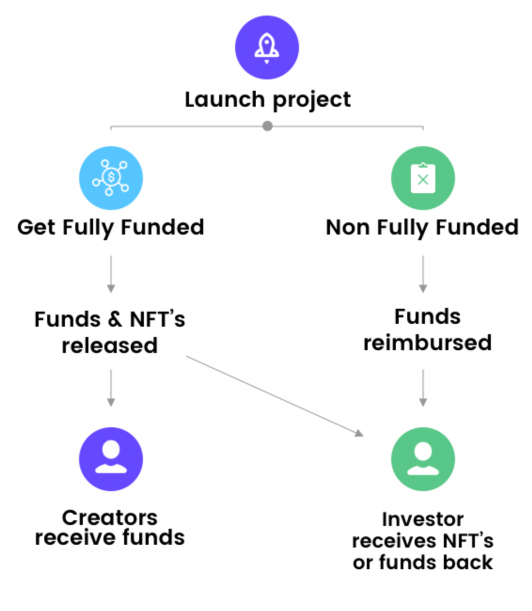
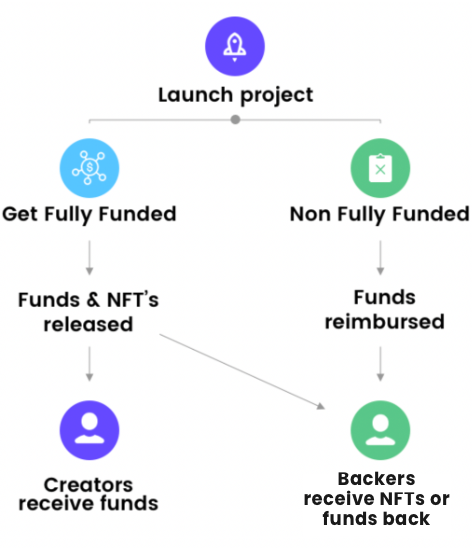
Added some images and made a few code changes to the project page.

diff --git a/components/about/hero/index.js b/components/about/hero/index.js
@@ -2,28 +2,61 @@ export default function Hero() {
     return (
         <section className='w-full py-20 bg-gradient-to-br from-blue-500 to-blue-600'>
             <div className='w-full max-w-5xl mx-auto flex flex-col px-4'>
-                <div className="w-full flex flex-col space-y-10 md:flex-row md:space-x-10 py-10">
-                    <div className="w-full md:w-6/12 font-bold text-4xl md:text-6xl text-white">
-                        Crowdfunding on the <span className="underline hover:text-blue-800 duration-500">Blockchain</span>,
-                        using <span className="italic">NFTs</span>
+                <div className='w-full flex flex-col space-y-10 md:flex-row md:space-x-10 py-10'>
+                    <div className='w-full md:w-6/12 font-bold text-4xl md:text-6xl text-white'>
+                        Crowdfunding on the{' '}
+                        <span className='underline hover:text-blue-800 duration-500'>
+                            Blockchain
+                        </span>
+                        , using <span className='italic'>NFTs</span>
                     </div>
-                    <div className="w-full md:w-6/12 flex flex-col justify-center">
-                        <ul className="text-gray-300 font-medium text-2xl">
-                            <li className="flex flex-row space-x-2 items-center">
-                                <svg xmlns="http://www.w3.org/2000/svg" className="h-6 w-6" fill="none" viewBox="0 0 24 24" stroke="currentColor" strokeWidth={2}>
-                                    <path strokeLinecap="round" strokeLinejoin="round" d="M9 12l2 2 4-4m6 2a9 9 0 11-18 0 9 9 0 0118 0z" />
+                    <div className='w-full md:w-6/12 flex flex-col justify-center'>
+                        <ul className='text-gray-300 font-medium text-2xl'>
+                            <li className='flex flex-row space-x-2 items-center'>
+                                <svg
+                                    xmlns='http://www.w3.org/2000/svg'
+                                    className='h-6 w-6'
+                                    fill='none'
+                                    viewBox='0 0 24 24'
+                                    stroke='currentColor'
+                                    strokeWidth={2}>
+                                    <path
+                                        strokeLinecap='round'
+                                        strokeLinejoin='round'
+                                        d='M9 12l2 2 4-4m6 2a9 9 0 11-18 0 9 9 0 0118 0z'
+                                    />
                                 </svg>
                                 <span>Proof of ownership</span>
                             </li>
-                            <li className="flex flex-row space-x-2 items-center">
-                                <svg xmlns="http://www.w3.org/2000/svg" className="h-6 w-6" fill="none" viewBox="0 0 24 24" stroke="currentColor" strokeWidth={2}>
-                                    <path strokeLinecap="round" strokeLinejoin="round" d="M9 12l2 2 4-4m6 2a9 9 0 11-18 0 9 9 0 0118 0z" />
+                            <li className='flex flex-row space-x-2 items-center'>
+                                <svg
+                                    xmlns='http://www.w3.org/2000/svg'
+                                    className='h-6 w-6'
+                                    fill='none'
+                                    viewBox='0 0 24 24'
+                                    stroke='currentColor'
+                                    strokeWidth={2}>
+                                    <path
+                                        strokeLinecap='round'
+                                        strokeLinejoin='round'
+                                        d='M9 12l2 2 4-4m6 2a9 9 0 11-18 0 9 9 0 0118 0z'
+                                    />
                                 </svg>
-                                <span>Cheaper and Global investing</span>
+                                <span>Cheap and global</span>
                             </li>
-                            <li className="flex flex-row space-x-2 items-center">
-                                <svg xmlns="http://www.w3.org/2000/svg" className="h-6 w-6" fill="none" viewBox="0 0 24 24" stroke="currentColor" strokeWidth={2}>
-                                    <path strokeLinecap="round" strokeLinejoin="round" d="M9 12l2 2 4-4m6 2a9 9 0 11-18 0 9 9 0 0118 0z" />
+                            <li className='flex flex-row space-x-2 items-center'>
+                                <svg
+                                    xmlns='http://www.w3.org/2000/svg'
+                                    className='h-6 w-6'
+                                    fill='none'
+                                    viewBox='0 0 24 24'
+                                    stroke='currentColor'
+                                    strokeWidth={2}>
+                                    <path
+                                        strokeLinecap='round'
+                                        strokeLinejoin='round'
+                                        d='M9 12l2 2 4-4m6 2a9 9 0 11-18 0 9 9 0 0118 0z'
+                                    />
                                 </svg>
                                 <span>Raise faster</span>
                             </li>
@@ -31,7 +64,10 @@ export default function Hero() {
                     </div>
                 </div>
 
-                <a href='https://dfinity.org' target='_blank' className='text-center mt-4'>
+                <a
+                    href='https://dfinity.org'
+                    target='_blank'
+                    className='text-center mt-4'>
                     <img
                         src='/assets/icbadge.svg'
                         className='w-125 h-8 hover:scale-105 duration-200 cursor-pointer d-inline-block'

diff --git a/pages/about.js b/pages/about.js
@@ -37,7 +37,7 @@ export default function About() {
 
                         <div className='rounded-xl py-8 px-5 shadow-lg hover:scale-105 duration-300'>
                             <p className='w-full text-center text-xl font-medium'>
-                                Cheaper and Global Investing
+                                Cheap and Global
                             </p>
                             <p className='text-sm text-gray-600 mt-4'>
                                 Using the IC Blockchain allows for you to open
@@ -90,7 +90,7 @@ export default function About() {
 
                         <div className='w-full md:w-6/12'>
                             <img
-                                src='/assets/how-it-works.png'
+                                src='/assets/hhh.svg'
                                 className='object-contain w-full h-full'
                             />
                         </div>
@@ -160,7 +160,7 @@ export default function About() {
                                 Log in with Internet Identity and Plug Wallet
                             </p>
                             <p className='text-center'>
-                                Both investors and creators can access the
+                                Both backers and creators can access the
                                 platform with internet identity, and connect
                                 with PlugWallet.
                             </p>
@@ -176,7 +176,7 @@ export default function About() {
                             </p>
                             <p className='text-center'>
                                 Describe your new venture and how it is going to
-                                help the world! Browse projects to invest in.
+                                help the world! Browse projects to back.
                             </p>
                         </div>
 
@@ -189,7 +189,7 @@ export default function About() {
                                 Carry projects to their goal!
                             </p>
                             <p className='text-center'>
-                                Using NFTs as proof of ownership for investment,
+                                Using NFTs as proof of ownership for backers,
                                 support projects through their journey!
                             </p>
                         </div>

diff --git a/components/project/nft-collection/nfts.js b/components/project/nft-collection/nfts.js
@@ -62,6 +62,36 @@ export default function NFTs({ project }) {
                       url: 'https://3mena-gaaaa-aaaak-aajja-cai.raw.ic0.app/?id=38',
                   },
               ]
+            : project.id === '8'
+            ? [
+                  {
+                      id: '#1',
+                      url: '/assets/nfts/music-video/1.png',
+                  },
+                  {
+                      id: '#2',
+                      url: '/assets/nfts/music-video/2.png',
+                  },
+                  {
+                      id: '#3',
+                      url: '/assets/nfts/music-video/3.png',
+                  },
+              ]
+            : project.id === '9'
+            ? [
+                  {
+                      id: '#0',
+                      url: '/assets/nfts/icwhiskers/1.png',
+                  },
+                  {
+                      id: '#1',
+                      url: '/assets/nfts/icwhiskers/2.png',
+                  },
+                  {
+                      id: '#2',
+                      url: '/assets/nfts/icwhiskers/3.png',
+                  },
+              ]
             : []
 
     return (

diff --git a/pages/project.js b/pages/project.js
@@ -39,8 +39,7 @@ export default function ProjectDetails() {
             let stats = {
                 nftNumber: Number(project.nftVolume),
                 nftPriceE8S:
-                    Number(BigInt(project?.goal) / project?.nftVolume) *
-                    100_000_000,
+                    (project?.goal / Number(project?.nftVolume)) * 100_000_000,
                 endTime: 0,
                 nftsSold: 0,
                 openSubaccounts: 0,
